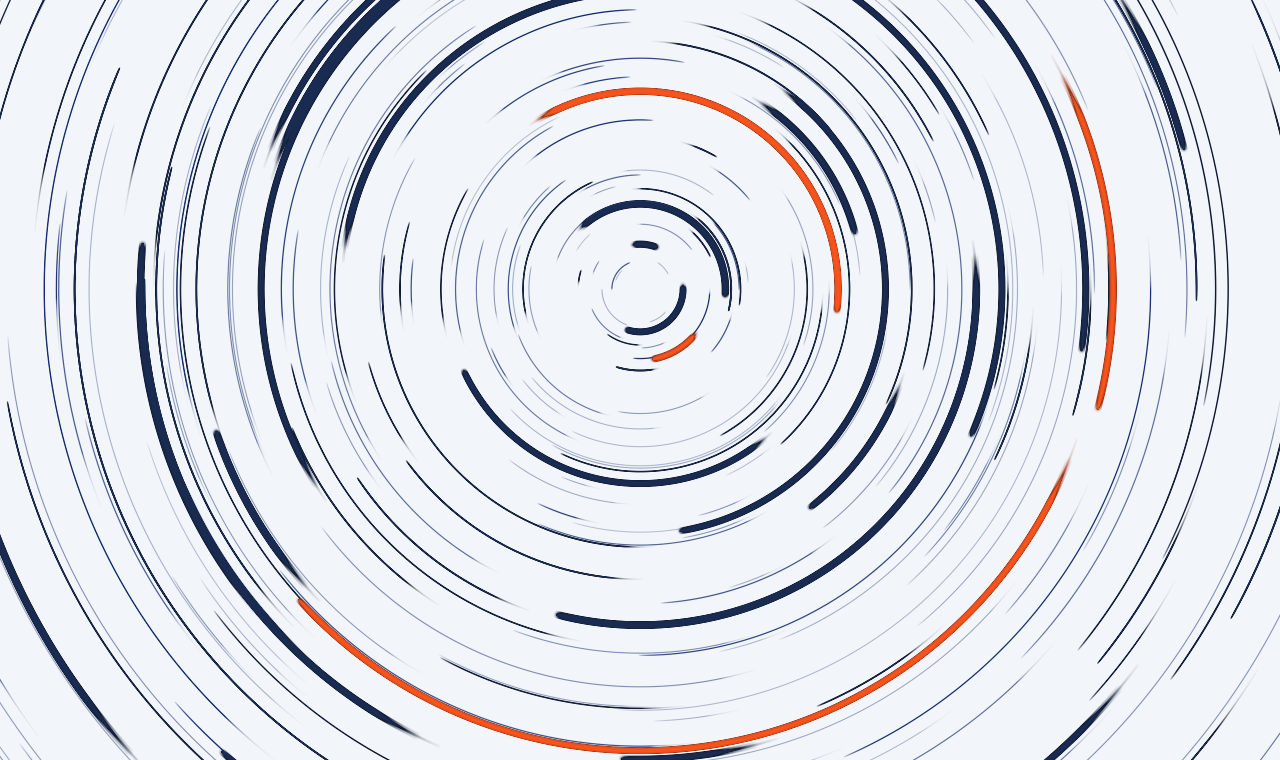
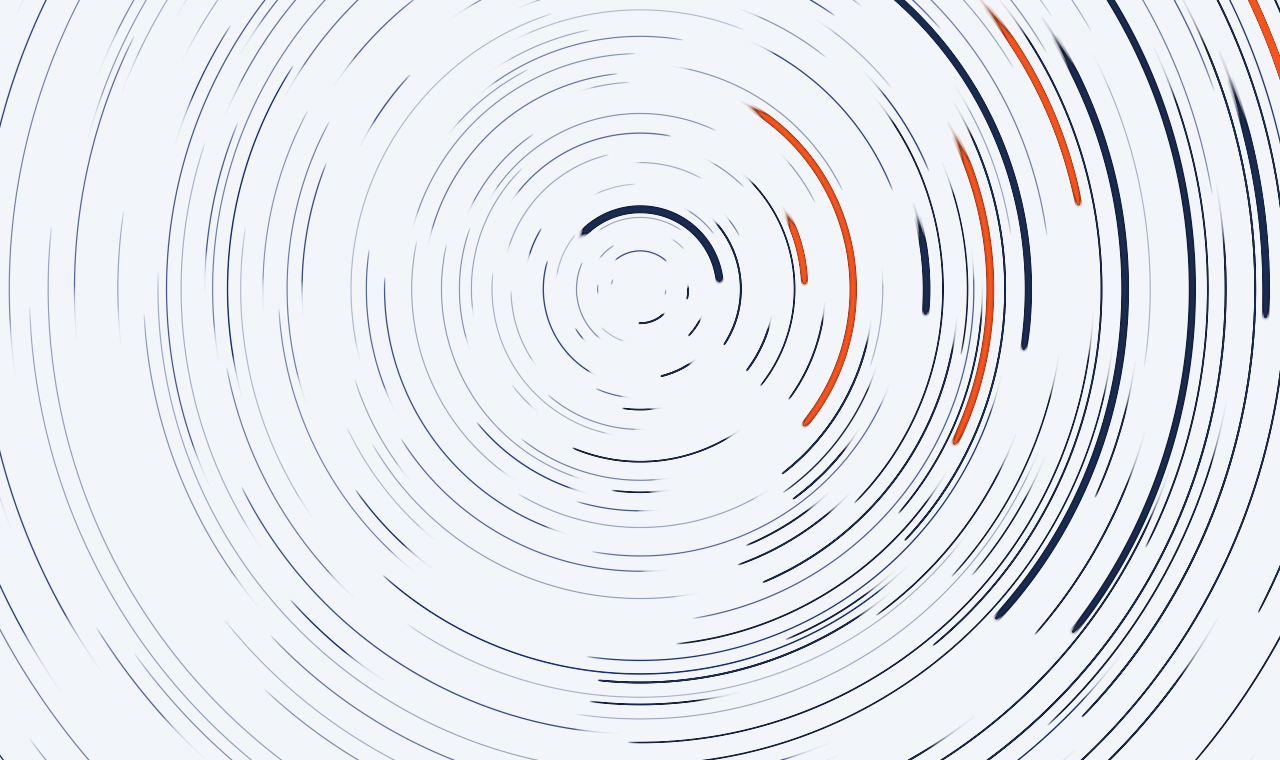
perf(home): 星轨分片预热、底片像素减半，摆放改黄金角
预曝光拆成 5ms 片、回首页推迟 520ms 开循环、山脊遮罩按几何缓存；
星数 280/140→220/110、弧长压短、随机量收一半；底片 DPR 1.8→1.25、
预算 9e6→6e6。起始角与星等档位改走低差异序列，相邻半径的弧不再并排糊成一道。

diff --git a/src/lib/sky.js b/src/lib/sky.js
@@ -9,7 +9,10 @@
 // 但两个相机若极点不同，导航后同心弧的圆心会跳 → "同一片天"当场穿帮，所以仍必须全站一处。
 export const POLE_FX = 0.5
 export const POLE_FY = 0.38
-const MAXPX = 9e6 // 底片像素预算（超出则自动降 DPR）
+// 2026-10-30 收预算：9e6 → 6e6。底片是每帧全屏 destination-out + drawImage 的对象，
+// 像素数就是主线程的固定税；旧档 1920×1080 上被 MIN_DPR 顶到 1.8（6.7MP），
+// 每帧光"擦一遍 + 贴一遍"就是 13MP 的填充，切页转场的 blur 再乘一层。
+const MAXPX = 6e6 // 底片像素预算（超出则自动降 DPR）
 // 底片内部分辨率的下限。**2026-10-07 第六轮之后，它治病的理由已经不成立了**：
 // 当时量的是"底片网格上的覆盖度谷/峰"（0.94 设备 px 是 0.25，1.87 是 0.79），可 1× 屏上眼睛
 // 采样的网格是 1 CSS px = 1 设备像素，把底片栅格加密并不动它——重算下来 p=1 是 0.33、
@@ -18,8 +21,11 @@ const MAXPX = 9e6 // 底片像素预算（超出则自动降 DPR）
 // 出 1.645，**这个下限连自己都被像素预算夹掉了**。
 // 现在保留它的唯一理由是弧线几何的平滑度（超采样让同心弧的台阶更细），**这一条没量过**。
 // 代价是 1× 大屏每帧全屏 destination-out + drawImage 多 2.7× 像素（1920×1080：2.07MP→6.2MP）。
-// 等他的 fps 读数决定要不要退回 `dpr = devicePixelRatio` + 4.6MP —— 别把 1.8 当成已生效的下限。
-const MIN_DPR = 1.8
+// 2026-10-30 按"降低加载压力"降到 1.25：1440×900 从 4.2MP 落到 2.03MP（−52%），
+// 2546×1307 从 1.645 落到 1.25（设备 DPR=1 时）或 1.343（更高 DPR 时由 6MP 预算封顶），
+// 像素 −33~36%。1.25 档下最细的线仍有 1.44 设备 px（LW_BASE 1.15 × 1.25）；
+// 视口再大就会被 6MP 预算继续往下压（4K / 1× 是 0.85 倍），那时底片是上采样的。
+const MIN_DPR = 1.25
 
 export const sky = {
   acc: null, // 长曝光底片（离屏累积缓冲）

diff --git a/docs/design.md b/docs/design.md
@@ -51,11 +51,11 @@
 
 ### 3.1 长曝光星轨（`src/components/StarTrails.vue`）
 
-**概念。** 首屏 = 架在三脚架上的相机长曝光。恒星周日视运动是刚体旋转（全场一致 `ω≈0.042 rad/s`），绕偏心天极（全站同一处：视口 `0.5 / 0.38`）累积成同心弧。刚体旋转只保证几何正确，不保证好看——可读的星空靠星等分层（多数暗、极少数亮）与弧长错落。恒定 ω 之上叠一层 `gust = 1 + 0.22·sin(t·ω_g)·sin(t·0.37ω_g+1.3)`（`GUST_*`，主周期 ≈47s，两个慢波不可通约、几分钟内不重复）破节拍器感；全场共享同一个 gust，不做差速旋转。
+**概念。** 首屏 = 架在三脚架上的相机长曝光。恒星周日视运动是刚体旋转（全场一致 `ω≈0.042 rad/s`），绕偏心天极（全站同一处：视口 `0.5 / 0.38`）累积成同心弧。刚体旋转只保证几何正确，不保证好看——可读的星空靠星等分层（多数暗、极少数亮）与弧长错落。恒定 ω 之上叠一层 `gust = 1 + 0.14·sin(t·ω_g)·sin(t·0.37ω_g+1.3)`（`GUST_*`，主周期 ≈47s，两个慢波不可通约、几分钟内不重复）破节拍器感；全场共享同一个 gust，不做差速旋转。
 
 **极点为什么全站统一。** 两台相机极点不同，导航后同心弧的圆心会跳，"同一片天"当场穿帮。更早是 `0.62/0.38`（偏右上，给当年贴左下的宣言让位），首屏改居中排版后回到水平正中。
 
-**渲染管线（Canvas 2D · 累积缓冲）。** ACC 离屏底片按**视口**尺寸分配、全站共享，每帧不清空：① 衰减 pass——`destination-out` 填 `alpha=fade`；② 增量 pass——每星画本帧短弧，**弧长由 `shear` 主导，不是 ω·dt**（每帧只有 0.0007rad）。这一条最容易记错：调 ω 改的是天空转多快，改弧长要动 `shear`。亮档与中档里偏亮的那半（`head = cls===2 || (cls===1 && z>0.55)`）另在拖痕前沿叠一笔短弧，亮档那笔长 30%、只吃头部亮段的 22%，配 0.72 倍线宽、`HEAD_GAIN=2.6`，让亮度自尾向头递增（实测累积比 1.3~1.6 倍）——等亮的长弧在视觉上只是"一根光棒"。主画布每帧 = 底 → `drawImage(ACC,0,0,W,H)`（顺带把天区坐标缩放进本机盒子）→ 当帧层（流星，不累积，保持锐利）→ 首页相机末尾 `destination-in` 山脊遮罩。底片内部分辨率 `dpr = min(2, max(1.8, devicePixelRatio), √(9e6/(w·h)))`，9MP 是预算封顶，相机跟随底片 DPR（这条为什么现在看是纯代价：§9 第 9 条）。
+**渲染管线（Canvas 2D · 累积缓冲）。** ACC 离屏底片按**视口**尺寸分配、全站共享，每帧不清空：① 衰减 pass——`destination-out` 填 `alpha=fade`；② 增量 pass——每星画本帧短弧，**弧长由 `shear` 主导，不是 ω·dt**（每帧只有 0.0007rad）。这一条最容易记错：调 ω 改的是天空转多快，改弧长要动 `shear`。亮档与中档里偏亮的那半（`head = cls===2 || (cls===1 && z>0.55)`）另在拖痕前沿叠一笔短弧，亮档那笔长 30%、只吃头部亮段的 22%，配 0.72 倍线宽、`HEAD_GAIN=2.6`，让亮度自尾向头递增（实测累积比 1.3~1.6 倍）——等亮的长弧在视觉上只是"一根光棒"。主画布每帧 = 底 → `drawImage(ACC,0,0,W,H)`（顺带把天区坐标缩放进本机盒子）→ 当帧层（流星，不累积，保持锐利）→ 首页相机末尾 `destination-in` 山脊遮罩。底片内部分辨率 `dpr = min(2, max(1.25, devicePixelRatio), √(6e6/(w·h)))`，6MP 是预算封顶，相机跟随底片 DPR（这两枚常数为什么都往下收：§9 第 9 条）。
 
 **天与相机（`src/lib/sky.js`）。** 底片像素、星群、天极、时钟、取景权放在模块级单例里——**星空是一份，相机是两台**。四条承重：
 
@@ -64,17 +64,27 @@
 - **取景权只管沉积，不管重绘。** `fall` 是并行转场，离开方与进入方并存约 380ms，两台相机同时沉积会画双份、`resize()` 还会互相清屏，所以底片同一时刻只认一个主人，后挂载者接管。但 `ownsPlate()` 只包住 `update()` 里的沉积段，非主人照样每帧 `draw()`——早期把它写进 `tick()` 的停帧条件，交出底片那台就在淡出的 380ms 里**冻在半帧上**，那是"切换顿挫"的真来源。如今星轨只剩首页一台相机，这段互斥实际不会触发，留着当护栏。
 - **两台相机的盒子一律取视口**（`resize()` 里量的是视口，不是 hero 的盒子），所以天区与相机恒为 1:1。这不是巧合：首页 `.hero` 是 `100svh`，手机上比 `innerHeight` 小最多 ~17%，拿它当相机会把底片**非等比压扁**——同心弧在首页变椭圆、进文章页又跳回正圆。多出来的一截由 `.hero{overflow:hidden}` 裁掉，牺牲几十像素取景换几何不出错。
 
+**加载与切页（2026-10-30）。** 星轨的"开机"分三条路：
+
+- **首次进首页**：预曝光不走 `buildPlate()` 的一次性 380 步——那是几百毫秒的长任务，正压在首屏照片的淡入上。改 `warmPlate()`：同一批 `accPass` 按 **5ms 一片**摊到连续几帧，每片之后补一帧 `draw()`，底片是"分几帧长出来"的；跑完才开 rAF 循环。减弱动效仍走原来那一趟同步的 `buildPlate()`（它本来就没有循环，重绘只挂在主题事件上）。
+- **再次进首页**：底片、星群、遮罩都还在。挂载先 `draw()` 一帧已有曝光（一次 `drawImage`），逐帧累积推迟 **~520ms**（`warmUntil`）——`fall` 会让整页逐帧重栅格化，画布的逐帧合成先让开这 380ms。`kick()` 见到未到点就挂一个 `setTimeout` 等在那里，不是拿 rAF 空转。
+- **山脊遮罩按 `主题 | W×H | 地景盒子` 缓存**（`ridgeCache`）：只有换主题、改视口或横带几何真的变了才重画。这张半分辨率画布要逐列铺两条渐变，以前每次挂载都重来一遍，正好撞在转场上。
+
+分片预曝光跨帧跑，所以卸载时用 `disposed` 把它停掉——否则离开首页后它还会继续往共享底片上叠几百步。
+
 **Props。** 只有一个：`interactive`（Boolean，默认 `false`）。`true` 才启用流星层与指针引力时间膨胀（指针坐标由 `src/lib/lens.js` 写成 `--lx/--ly`，画布自己从不写这两个变量）。**当前只有一个挂载点、且传的就是 `true`**（见下面「部署位置」），所以 `false` 那一档实际不会走到——限帧 30fps 的 `SUB_FPS` 闸门、`update()` 里读 `shift.v` 的文档级深度分支，都是随之而来的死码，列在文末待裁，不在这当现状描述。**星数与之无关**——星群属于全站共享的天空（按视口宽与主题定数，深色再乘 `N_DEEP_K`）：底片是共享的那一张，哪一台少沉积一半，那些圆弧就会在全局衰减里慢慢消失。
 
 **交互语义。** 滚动 = 时间流速（`flow = 1 + k·2.2`，`fade` 由 0.172→0.104；尾迹长度按 `(flow·FADE_0/fade)^LEN_POW` 放大弧长，`LEN_POW=0.28`），所以越深天越快、弧也越长。指针 = 引力时间膨胀（180px 半径内转速 ×2.8、提亮、轨迹局部卷曲，移开恢复）。次级页曾有一条**文档级**的深度响应：`update()` 每帧读 `src/lib/shift.js` 的 `shift.v`，推进 `flowT = 1 + d·SUB_FLOW`（`SUB_FLOW=1.1`，首页 `FLOW_MAX` 的一半，阅读时保持克制）与 `fadeT = SUB_FADE_TOP − d·(SUB_FADE_TOP − FADE_1)`（`SUB_FADE_TOP = FADE_0·1.3`）——页顶是安静的短尾迹，越往下读曝光越久；它不用首页那套 `scrollY/(H·1.1)`，因为长文章滚过一屏后者就饱和了，读不出整篇进度。次级页那台相机已经撤掉（现在只剩首页一个挂载点），这一整段连同 `SUB_*` 常数一起不再触发。
 
-**星等三档（72/22/6）。** 暗/中/亮各走自己的 z 区间（0.10–0.32 / 0.34–0.64 / 0.75–1.0），线宽（亮 ×1.35）、弧长（亮 ×1.5、中 ×1.15）、沉积系数（`dk` = 0.8/1/1.5）全分档——**档间差要大于档内抖动**，结构靠少数粗长亮拖痕承担。亮星外圈另叠一笔宽而淡的同弧（`bleed`：lw×2.6、α×0.16）：浅色读成干版墨晕，深色 `lighter` 下读成辉光，一笔两主题各取所需。色温跟星等走（暗=冷档、中=中性档、亮星里三成抽暖档），暖色只跟在亮星后面，出现即点睛。累积稳态 alpha ≈ `al/(al+fade)`，实测从暗到亮 0.196 → 0.247 → 0.443 → 0.753。
+**星等三档（72/22/6）。** 暗/中/亮各走自己的 z 区间（0.10–0.32 / 0.34–0.64 / 0.75–1.0），线宽（亮 ×1.35）、弧长（亮 ×1.5、中 ×1.15）、沉积系数（`dk` = 0.8/1/1.5）全分档——**档间差要大于档内抖动**，结构靠少数粗长亮拖痕承担；档位在 i 上均匀取（见下条"角度与星等"），不是随机抽。亮星外圈另叠一笔宽而淡的同弧（`bleed`：lw×2.6、α×0.16）：浅色读成干版墨晕，深色 `lighter` 下读成辉光，一笔两主题各取所需。色温跟星等走（暗=冷档、中=中性档、亮星里三成抽暖档），暖色只跟在亮星后面，出现即点睛。累积稳态 alpha ≈ `al/(al+fade)`，实测从暗到亮 0.196 → 0.247 → 0.443 → 0.753。
 
-**半径分层。** 独立随机取样必然结块：180 条环 12 次取均值实测"最挤 10 条跨度 ÷ 最松 10 条跨度"= **5.66**、最小间距 **0.0px**、50 个半径桶 **2.6 个全空**。改为**等距槽 + 槽内抖动 0.76 + 单调弯折**（`pickRn(i,n)`，`MID_BIAS=0.2` 保留"中段略密"的倾向）：结块比 **1.65**、最小间距 1.5px（n=100 时 3.2px）、空桶 1 个（天极附近，本来就该空），而相邻间距仍有 ±76% 摆动，不是尺子画的。
+**半径分层。** 独立随机取样必然结块：180 条环 12 次取均值实测"最挤 10 条跨度 ÷ 最松 10 条跨度"= **5.66**、最小间距 **0.0px**、50 个半径桶 **2.6 个全空**。改为**等距槽 + 槽内抖动 0.62 + 单调弯折**（`pickRn(i,n)`，`MID_BIAS=0.2` 保留"中段略密"的倾向）：结块比 **1.65**、最小间距 1.5px（n=100 时 3.2px）、空桶 1 个（天极附近，本来就该空），而相邻间距仍有 ±62% 摆动，不是尺子画的。抖动由 0.76 收到 0.62 是 2026-10-30 与角度那一轮一起改的：0.76 时相邻两环最近只差 1px，线宽 1.55px 会直接糊成一道。
 
-**弧长与闪烁。** `shear = 0.07+r^1.55·1.0` × 星等倍率（亮 1.5 / 中 1.15 / 暗 1）：中位 ≈23.6°、最长 ≈61°、亮星到 92°，最短最长差 8 倍以上——随机感首先靠"每根都不一样长"承载。闪烁幅度随星等放大（`ta = 0.08+0.13·min(1,z)`），另叠云幕慢包络（周期 40–110s、幅度 10–22% 缓变暗化），与快闪烁、独立尾部渐隐（`FEAT`，同时只挑 1–3 根、间隔 5.2~11s）构成三个时间尺度。
+**角度与星等也用低差异序列（2026-10-30）。** 作者评"不够分散，一堆线条堆叠在一起"。纯随机的起始角 `Math.random()*TAU` 在 220 个点上必然有几处挤成一串，而半径相邻的两根若角度也相近，1~2px 的间距就会糊成一道粗线。现在起始角走黄金角序列 `((i·0.618…)+抖动0.16) mod 1`：相邻下标的弧差 137.5°，半径挨着的两根永远不在同一段弧上。星等档位同样从 `Math.random()` 换成 `(i·0.3819…) mod 1`——**刚曝光几秒时只有亮星看得见**，档位随机会让这 6% 扎堆在同一侧，角度摊得再匀也没用；均匀取档之后亮星在 i 上等距，配合黄金角就是绕天极一周等距分布。半径分布不动（`R_MIN` / 等距槽 / `MID_BIAS` 照旧）：作者要的是"分散"，不是"内外疏密"。
 
-**主题。** 深色 = 冷白（暗）/暖白（中）/琥珀（亮星点睛），`lighter` 发光；浅色 = 板岩（暗）/石墨（中）/朱砂（亮星点睛），`source-over`，fade×1.4 尾迹更干净。**浓淡常量分主题，不共用一个数**：沉积浅色 ×1.5、深色 ×1；衰减浅色 ×1.4、深色 ×1；星数深色 ×`N_DEEP_K`(0.65) → 深色 182 根 / 浅色 280 根。换主题才"换一张底片"（防串色），并且**要连带重播星群**（星数变了）：`readColors()` 拿 `data-theme` 与 `sky.theme` 比对，相同就直接返回——两台相机各挂一个 MutationObserver，一次切换会进来两趟，靠这个比较幂等。**挂载不重铺。** 换主题同时重建山脊遮罩（两个主题的地景是两张不同的照片）。
+**弧长与闪烁。** `shear = 0.09+r^1.9·0.85` × 星等倍率（亮 1.5 / 中 1.15 / 暗 1）：中位 ≈18.7°、最长 ≈54°、亮星到 81°——长短差 8 倍以上，随机感首先靠"每根都不一样长"承载（2026-10-30 压长尾：旧 `0.07+r^1.55·1.0` 的中位 23.6°、最长 61°、亮星 92°，长弧在整屏上读成"拖出来的细丝"）。闪烁幅度随星等放大，`ta = 0.04+0.08·min(1,z)`（同日减半：整屏眨眼读成噪点）；另叠云幕慢包络（周期 40–126s、幅度 5–12% 缓变暗化，原 10–22%），与快闪烁、独立尾部渐隐（`FEAT`，每次 1–2 根、间隔 8–14s、4.2s 内暗到 0.45 再回来）构成三个时间尺度。
+
+**主题。** 深色 = 冷白（暗）/暖白（中）/琥珀（亮星点睛），`lighter` 发光；浅色 = 板岩（暗）/石墨（中）/朱砂（亮星点睛），`source-over`，fade×1.4 尾迹更干净。**浓淡常量分主题，不共用一个数**：沉积浅色 ×1.5、深色 ×1；衰减浅色 ×1.4、深色 ×1；星数深色 ×`N_DEEP_K`(0.65) → 深色 143 根 / 浅色 220 根（窄屏 110 / 72；2026-10-30 由 280/182 收到这一档，同时把线宽抬 0.1px、弧长压短，见上面两条）。换主题才"换一张底片"（防串色），并且**要连带重播星群**（星数变了）：`readColors()` 拿 `data-theme` 与 `sky.theme` 比对，相同就直接返回——两台相机各挂一个 MutationObserver，一次切换会进来两趟，靠这个比较幂等。**挂载不重铺。** 换主题同时重建山脊遮罩（两个主题的地景是两张不同的照片）。
 
 **山脊遮挡（`src/lib/ridge.js`）。** 山只存在于首页地景横带，而底片全站共享，所以遮挡只能做在**绘制时**、按相机裁——沉积时切弧会让次级页在同一张底片上读出一圈缺角。遮罩是一张半分辨率 alpha 画布：脊线以下 0，脊线以上 `RIDGE_FEATHER=26px` 羽化到 `RIDGE_ALT_FLOOR=0.62`，再往上 `RIDGE_ALT_K=0.22` 个视口高回升到 1（后半段是大气透视：贴地平线的星轨本该比天顶淡，顺带把边界做成梯度而不是剪纸边）；整条边界再上移 `RIDGE_BIAS=10px` 给描线误差留余量。`draw()` 末尾一次 `destination-in` 合成，流星同裁——它们都是天空的现象，本该躲在山后。轮廓是在 bake 产物网格叠图上手工描的折线；两套主题共用同一张首屏取景，所以**只有一条**。cover 变换（水平居中、垂直顶边钉死）在 `buildRidgeMask` 里复算，盒子取 `.hero-plate` 自己的 `getBoundingClientRect`——按视口高固定比例算会踩 `100svh` 与 `innerHeight` 在手机上的差，而横带高度本身也不是常数（§8「首页」的 `--band-h`）。**换 bake 源（`SRC_HERO`）必须重描这条折线。**
 
@@ -88,7 +98,7 @@
 
 **部署位置。** 只有一台：`HorizonHero.vue` 以 `interactive` 挂载，画在首屏那一格里；挂载本身排在首屏照片 `load` 之后（§8「首页」的加载顺序）。`App.vue` 不再挂第二台非交互相机——次级页背后那层是 `.sub-plate` 的 fixed 照片（§6.1），不是画布。
 
-**离线复算。** `scripts/build_readme_art.mjs` 与 `scripts/check_contrast.mjs` 复刻同一套合成算术（三档、`dk`、云幕、bleed、色板），常数**从源码正则读**、读不到直接抛错——所以改星轨参数后要重跑 `npm run art:build`；两张 README 底片图的星数按主题各算（280 / 182）。量密度的方法：复刻 `accPass` 合成数学、同步跑固定帧数、`getImageData` 量底片（rAF 冻结也能跑）；深色与浅色各跑到 2400 帧，`p50` 全程钉在 0.247 / 0.165、最亮在 0.68~0.83 之间不爬向 1，即覆盖面积翻 3.6 倍的过程中**没有饱和回归**。
+**离线复算。** `scripts/build_readme_art.mjs` 与 `scripts/check_contrast.mjs` 复刻同一套合成算术（三档、`dk`、云幕、bleed、色板），常数**从源码正则读**、读不到直接抛错——所以改星轨参数后要重跑 `npm run art:build`；两张 README 底片图的星数按主题各算（220 / 143）。量密度的方法：复刻 `accPass` 合成数学、同步跑固定帧数、`getImageData` 量底片（rAF 冻结也能跑）；深色与浅色各跑到 2400 帧，`p50` 全程钉在 0.247 / 0.165、最亮在 0.68~0.83 之间不爬向 1，即覆盖面积翻 3.6 倍的过程中**没有饱和回归**。
 
 ### 3.2 曝光深度与时间流速
 
@@ -417,10 +427,10 @@ p.sr-only[aria-live] → 路由播报，内容取 route.meta.t
 5. **暗色首屏复用抽屉那张夜景底**——切主题换了一座山（亮色雪山 / 暗色海边），且顶边只是"几乎"对齐：旧记的 1.07:1 在重烘后漂到 1.17:1（ΔL\*≈7.7），没有渐变的硬边被眼睛读成一道横杠。
 6. **靠调小 `fd` 拉长尾迹**——8 位底片上 `α·fd < 0.5 LSB` 的那一档永远掉不下去，地板高度 = `0.5/(255·fd)`：旧值 `FADE_1=0.0038` 时 `round(fd·255)=1` → 地板 α≈0.5，每颗星 150s 扫过的一整圈永久留在底片上（实测残留覆盖 6.7% 像素、10 条半径行的角度覆盖率 >55%、最强一圈 100%、浅色上 Δ灰 32 的实线同心环，内圈环间距只有 9.6px 全糊成唱片纹）。**越收越浓就是这么来的**（往下调衰减 = 往上抬地板）。修法是把沉积与衰减同时 ×20（`DEP 0.0084→0.168`、`FADE_0 0.0086→0.172`、`FADE_1 0.0052→0.104`）：稳态亮度 `al/(al+fd)` 逐位不变，地板按 1/fd 掉到 Δ灰 1.6（最深档 2.5），残留覆盖 6.72%→**0.00%**、整环行 10→**0**、盖上镜头空转 10s 后均值 α 0.0109→**0.0009**。阴性对照：同样常数换 `Float32` 底片 → 残留 Δ灰 0.0，与 8 位那一臂差一个半数量级，说明差异确实来自取整。半档（×10）实测 Δ灰 3.2 也过得了判据，选 ×20 是给 1× 大屏的抗锯齿边缘留余量。**代价**：尾迹长度不能再挂在衰减窗口上（1/fd 从 83 帧掉到 4 帧，指数尾只剩 0.17°），改由弧长承载。
 7. **每笔沉积不乘帧时长**——刷新率越高同一点叠得越多：120Hz 最深档实测 α=1 的实心像素 0.76%→1.89%、环间黑隙 27px→20px，而 60Hz 开发机上看不见，于是"收了参数没见轻"。`accPass(…, dep, step)` 把 `step` 也乘进沉积，60Hz 下 `step=1`，观感逐位不变，此后每个口味常量在任何刷新率上都落得准。
-8. **一套星数服务两个主题**——同一个 α=0.037 压在浅色干版（底 245、墨 40，跨度 205 级）上是 7.6 级 = 3% 对比、隐进纸纹，加在近黑底（背景 2.2 级）上是 **320% 对比**，一眼读成"一片脏灰的轨迹"。深色那层灰**不是残留而是每条线自己的抗锯齿翼**：最暗活尾迹核心稳态 α = `DEP·z_min/FADE_0 = 0.168·0.16/0.172 = 0.135`（≈26 级），它的翼在中位线宽 0.96 CSS px 上取到 α≈0.037 → ≈8.2 级，与截图实测 7.0 级同数量级、同一位置。所以星数必须分档（`N_DEEP_K=0.65`：深色 182 / 浅色 280），页顶档齿/100px 1.63→**0.92**、黑隙中位 51px→**107px**、可见亮线覆盖 1.87%→**1.21%**、翼层面积 0.78%→**0.48%**；最深档深色 1.84 齿、黑隙 34px，仍低于浅色最深档的 2.55——收完不会比浅色更空。**这一维上 `fade` 是封死的**：残留/核心之比 = `0.00196/(dep·z)`，与 `fd` 无关（分子是 1 LSB 的地板 α，分母是稳态 α，`fd` 约掉了），加衰减擦不掉翼、减衰减又把地板抬回来；能动的只有同时在屏的线条数。
-9. **靠超采样修"细碎"**——1× 缩放的屏上眼睛的采样网格恒为 1 CSS px：中位线宽 0.93 时脊的谷/峰 = 0.33（同一条线自己亮 30 级、暗 10 级交替），底片内部栅格换成 1.645 是 0.34、换成 2 是 0.24，**几乎没有收益**；只有把线本身加粗才动它（1.2px→0.42、1.5px→0.52、1.8px→0.63）。顺带查出 `MIN_DPR=1.8` 在 2546×1307 上被 9MP 预算悄悄夹成 1.645——那句"下限 1.8"从来没成立过。现在 `MIN_DPR`/`MAXPX` 看是纯代价（1× 屏多花 2.7× 像素换 0.01 的起伏改善），候选退回 `dpr = devicePixelRatio` + 4.6MP，但那会同时改变弧线几何平滑度与帧率，等 fps 读数再动。
+8. **一套星数服务两个主题**——同一个 α=0.037 压在浅色干版（底 245、墨 40，跨度 205 级）上是 7.6 级 = 3% 对比、隐进纸纹，加在近黑底（背景 2.2 级）上是 **320% 对比**，一眼读成"一片脏灰的轨迹"。深色那层灰**不是残留而是每条线自己的抗锯齿翼**：最暗活尾迹核心稳态 α = `DEP·z_min/FADE_0`（量的时候 `DEP` 还是 0.168，第六轮等墨后是 0.108，同比例缩放）= `0.168·0.16/0.172 = 0.135`（≈26 级），它的翼在中位线宽 0.96 CSS px 上取到 α≈0.037 → ≈8.2 级，与截图实测 7.0 级同数量级、同一位置。所以星数必须分档（`N_DEEP_K=0.65`：量的时候深色 182 / 浅色 280；**2026-10-30 再收两成到 143 / 220**，比例不动，理由见 §3.1 的星数与弧长两条），页顶档齿/100px 1.63→**0.92**、黑隙中位 51px→**107px**、可见亮线覆盖 1.87%→**1.21%**、翼层面积 0.78%→**0.48%**；最深档深色 1.84 齿、黑隙 34px，仍低于浅色最深档的 2.55——收完不会比浅色更空。**这一维上 `fade` 是封死的**：残留/核心之比 = `0.00196/(dep·z)`，与 `fd` 无关（分子是 1 LSB 的地板 α，分母是稳态 α，`fd` 约掉了），加衰减擦不掉翼、减衰减又把地板抬回来；能动的只有同时在屏的线条数。
+9. **靠超采样修"细碎"**——1× 缩放的屏上眼睛的采样网格恒为 1 CSS px：中位线宽 0.93 时脊的谷/峰 = 0.33（同一条线自己亮 30 级、暗 10 级交替），底片内部栅格换成 1.645 是 0.34、换成 2 是 0.24，**几乎没有收益**；只有把线本身加粗才动它（1.2px→0.42、1.5px→0.52、1.8px→0.63）。顺带查出 `MIN_DPR=1.8` 在 2546×1307 上被 9MP 预算悄悄夹成 1.645——那句"下限 1.8"从来没成立过。**2026-10-30 两枚都往下收**（`MAXPX 9e6→6e6`、`MIN_DPR 1.8→1.25`）：作者要"降低加载压力"，而底片是每帧全屏 `destination-out` + `drawImage` 的对象，像素数就是主线程的固定税——1440×900 从 4.2MP 落到 2.03MP（−52%）、2546×1307 从 1.645 落到 1.25 或 1.343（−33~36% 像素）。1.25 档下最细的线仍有 1.44 设备 px（`LW_BASE` 1.15 × 1.25）；换来的那点起伏改善本来就只有 0.01，没有理由按 1.8 倍线性尺寸（3.2 倍像素）去买。
 10. **加粗但不减 α**——单位弧长的墨 = α·lw，canvas 的 `lineWidth` 不摊薄 alpha，加粗 1.55 倍就是把墨加 1.55 倍，等于把刚压下去的脏灰整个还回去。所以 `LW_BASE/LW_SPAN` 与 `DEP` 是一对联动常量（等墨：中位宽 0.94→1.45 CSS px 时 `DEP 0.168→0.108`）。等墨之后深色页顶齿/100px 0.92→0.92、黑隙 105/10 不动，**翼层 0.65%→0.51%（降 22%）**。同理**任何复刻这条管线的脚本都不许把落笔按周长归一**（`(1−d²/r²)²/norm` 只在 lw≈1 时恰好等价，且会把"加粗有用"从模型里抹掉），必须写成 `像素 α = 笔画 α × 与笔带的面积重叠`。
-11. **`SETTLE` 那道按角度统一削沉积的暗楔**——窗口缩到 4 帧之后闭合环根本不可能形成，留下的只有全天在同一角度缺角（72° 暗楔），两条常量连同只服务它的 `smooth01` 一起删。随机抽 1–3 根独立渐隐（`FEAT`）保留——它是随机的，不是全天一刀切。
+11. **`SETTLE` 那道按角度统一削沉积的暗楔**——窗口缩到 4 帧之后闭合环根本不可能形成，留下的只有全天在同一角度缺角（72° 暗楔），两条常量连同只服务它的 `smooth01` 一起删。随机抽 1–2 根独立渐隐（`FEAT`）保留——它是随机的，不是全天一刀切。
 12. **把 `fall` 换成"只动 opacity/transform + 独立红移覆盖层"**——可行，但叠影模糊正是"坍缩"的手感来源，按取舍保留原样。真要回收：那是全站最贵的一处绘制（整页子树逐帧重栅格化，两页并行时更甚）。
 13. **首屏放点击入口**——变星（文章节点）装置整体撤除：骑在轨迹上的星读成贴在光弧上的脏点，hover 缓绽与点击坠入自上线以来没有任何使用侧反馈。首屏从此没有**内容**入口，文章入口收敛到折线以下的抽屉精选卡（后来补的那枚 ↓ 是一条导航提示，不是内容入口——见 §6.2 的 `HorizonHero`）。
 14. **在次级页也画山**——沉积时切弧会让次级页（背景无山）在同一张底片上读出一圈缺角，所以遮挡只能在绘制时按相机裁（§3.1）。
